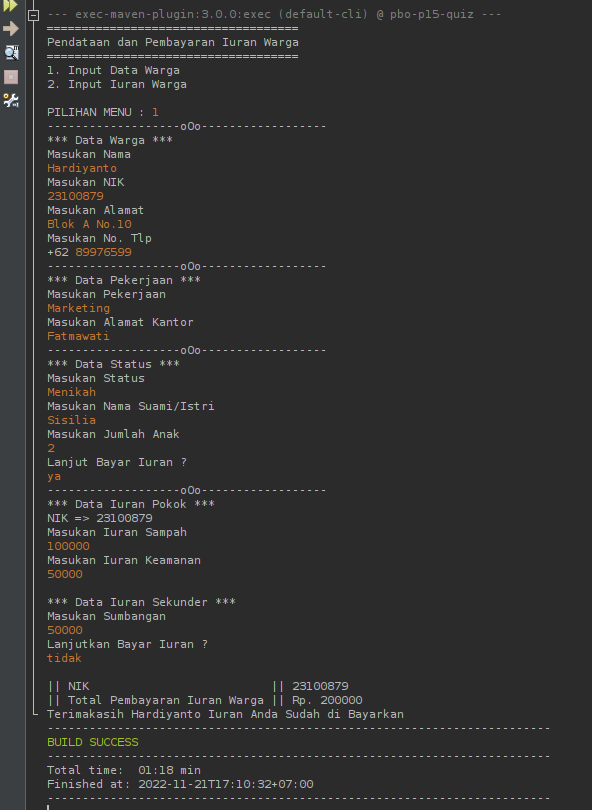
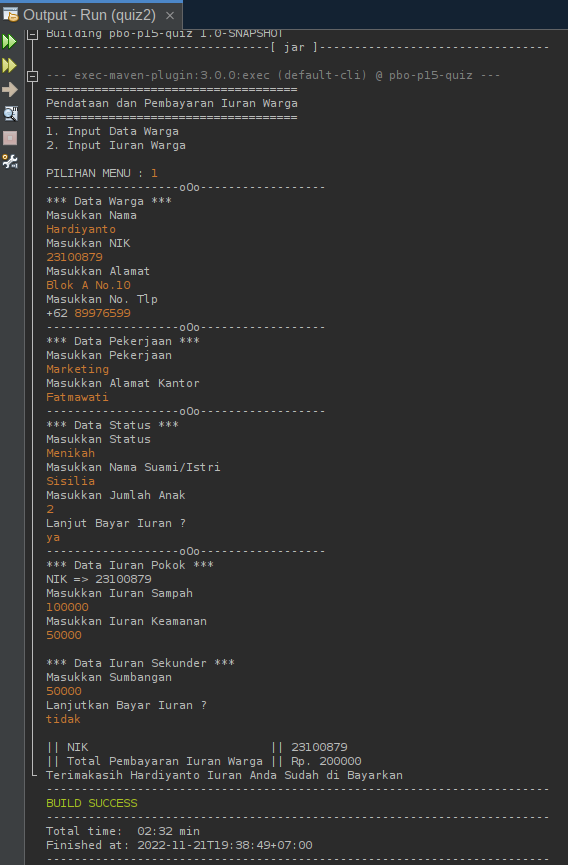
update quiz2

diff --git a/src/main/java/org/pbo/p15/quiz/quiz2.java b/src/main/java/org/pbo/p15/quiz/quiz2.java
@@ -21,13 +21,13 @@ public class quiz2 {
         System.out.println("-------------------oOo------------------");
         if (input.equals("1")) {
             System.out.println("*** Data Warga ***");
-            System.out.println("Masukan Nama");
+            System.out.println("Masukkan Nama");
             nama = sc.nextLine();
-            System.out.println("Masukan NIK");
+            System.out.println("Masukkan NIK");
             nik = sc.nextLine();
-            System.out.println("Masukan Alamat");
+            System.out.println("Masukkan Alamat");
             alamat = sc.nextLine();
-            System.out.println("Masukan No. Tlp");
+            System.out.println("Masukkan No. Tlp");
             System.out.print("+62 ");
             telp = sc.nextLine();
             // simpan input di object data
@@ -35,20 +35,20 @@ public class quiz2 {
             // next step
             System.out.println("-------------------oOo------------------");
             System.out.println("*** Data Pekerjaan ***");
-            System.out.println("Masukan Pekerjaan");
+            System.out.println("Masukkan Pekerjaan");
             pekerjaan = sc.nextLine();
-            System.out.println("Masukan Alamat Kantor");
+            System.out.println("Masukkan Alamat Kantor");
             kantor = sc.nextLine();
             // simpat input di object data
             iuran.data(pekerjaan, kantor);
             // next step
             System.out.println("-------------------oOo------------------");
             System.out.println("*** Data Status ***");
-            System.out.println("Masukan Status");
+            System.out.println("Masukkan Status");
             status = sc.nextLine();
-            System.out.println("Masukan Nama Suami/Istri");
+            System.out.println("Masukkan Nama Suami/Istri");
             menikah = sc.nextLine();
-            System.out.println("Masukan Jumlah Anak");
+            System.out.println("Masukkan Jumlah Anak");
             jumlah_anak = sc.nextLine();
             // simpan input di object data
             iuran.data(status, menikah, jumlah_anak);
@@ -59,17 +59,17 @@ public class quiz2 {
                 System.out.println("-------------------oOo------------------");
                 System.out.println("*** Data Iuran Pokok ***");
                 System.out.println("NIK => " + iuran.nik);
-                System.out.println("Masukan Iuran Sampah");
+                System.out.println("Masukkan Iuran Sampah");
                 sampah = Integer.parseInt(sc.nextLine());
-                System.out.println("Masukan Iuran Keamanan");
+                System.out.println("Masukkan Iuran Keamanan");
                 keamanan = Integer.parseInt(sc.nextLine());
                 System.out.println("");
                 System.out.println("*** Data Iuran Sekunder ***");
-                System.out.println("Masukan Sumbangan");
+                System.out.println("Masukkan Sumbangan");
                 sumbangan = Integer.parseInt(sc.nextLine());
                 System.out.println("Lanjutkan Bayar Iuran ?");
                 input = sc.nextLine();
-                if (input.equalsIgnoreCase("tidak")) {
+                if (input.equalsIgnoreCase("tidak")||input.equalsIgnoreCase("t")) {
                     System.out.println("");
                     String format = "||%1$-30s||%2$-20s\n";
                     System.out.format(format," NIK"," "+iuran.nik);
@@ -77,6 +77,7 @@ public class quiz2 {
                     System.out.format(format," Total Pembayaran Iuran Warga"," Rp. "+iuran.data(sampah, keamanan, sumbangan));
                     System.out.println("Terimakasih " + iuran.nama + " Iuran Anda Sudah di Bayarkan");
                 } else {
+                    System.exit(0);
                 }
 
             }
